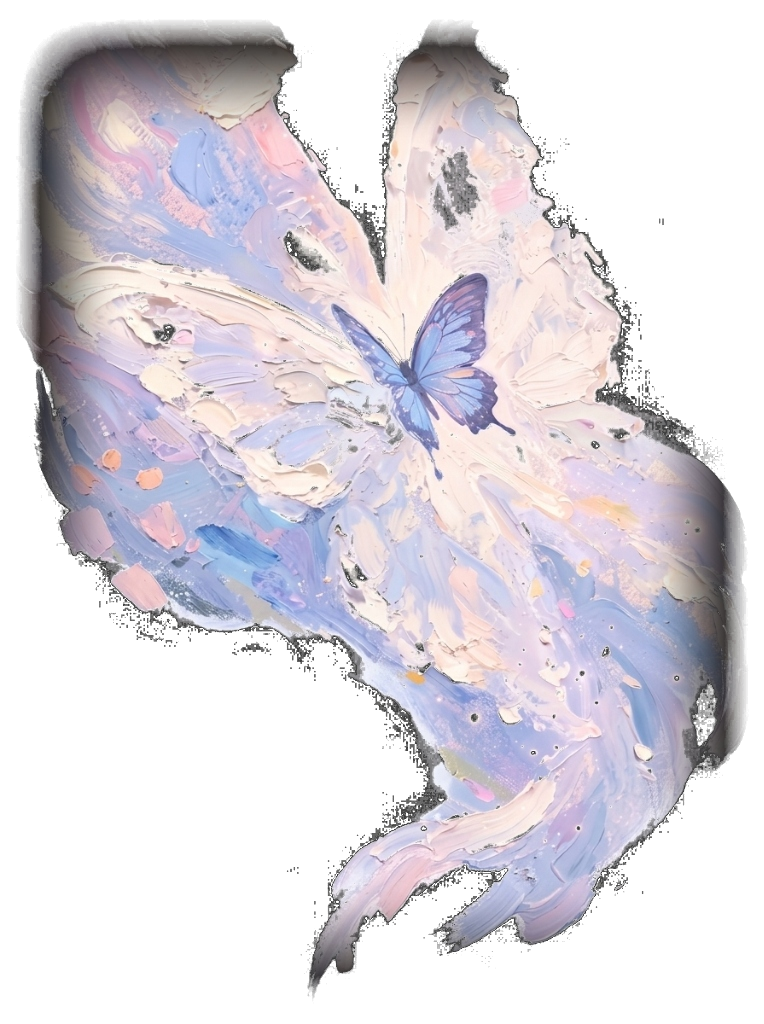
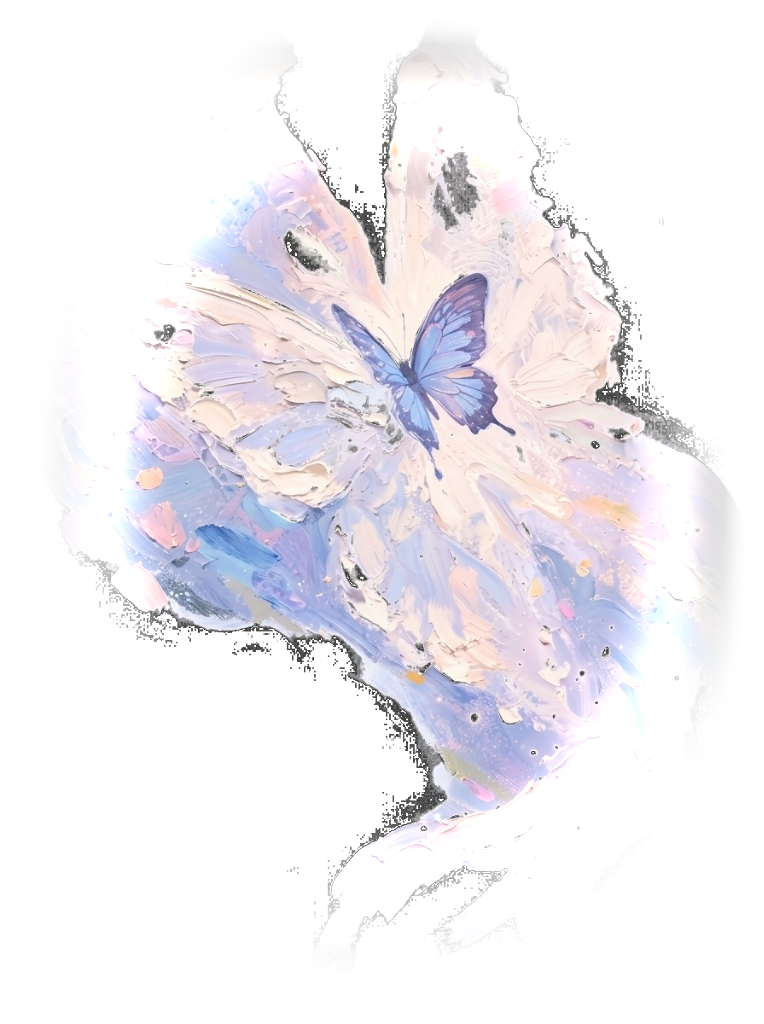
feat: apply soft radial edge gradient fade and 80% opacity to hero butterfly artwork

diff --git a/site/index.html b/site/index.html
@@ -1042,9 +1042,9 @@ input[type=range].slider::-moz-range-thumb{width:20px;height:20px;border-radius:
     <div class="star" style="top:60px;left:38%;"></div><div class="star" style="top:140px;left:62%;"></div>
     <div class="star" style="top:220px;left:80%;width:2px;height:2px;"></div><div class="star" style="top:90px;left:52%;width:2px;height:2px;"></div>
 
-    <!-- Full-height hero butterfly oil painting artwork attached to the right edge with native transparency -->
+    <!-- Full-height hero butterfly oil painting artwork attached to the right edge with edge gradient fade & 80% opacity -->
     <div class="hero-artwork-container" style="position:absolute;top:0;right:0;bottom:0;height:100%;display:flex;align-items:center;justify-content:flex-end;pointer-events:none;z-index:1;overflow:hidden;">
-      <img src="hero-butterfly-oil.png" alt="ReRouteHer Ethereal Butterfly Oil Painting" class="hero-butterfly-img" style="height:100%;max-height:100%;width:auto;object-fit:contain;object-position:right center;filter:drop-shadow(0 20px 35px rgba(50,45,90,.18));" />
+      <img src="hero-butterfly-oil.png" alt="ReRouteHer Ethereal Butterfly Oil Painting" class="hero-butterfly-img" style="height:100%;max-height:100%;width:auto;object-fit:contain;object-position:right center;opacity:0.8;-webkit-mask-image:radial-gradient(ellipse 75% 85% at 52% 48%, rgba(0,0,0,1) 45%, rgba(0,0,0,0.85) 65%, rgba(0,0,0,0) 100%);mask-image:radial-gradient(ellipse 75% 85% at 52% 48%, rgba(0,0,0,1) 45%, rgba(0,0,0,0.85) 65%, rgba(0,0,0,0) 100%);filter:drop-shadow(0 20px 35px rgba(50,45,90,.16));" />
     </div>
 
     <div style="position:relative;display:flex;align-items:center;justify-content:space-between;padding:26px 60px;z-index:2;">
